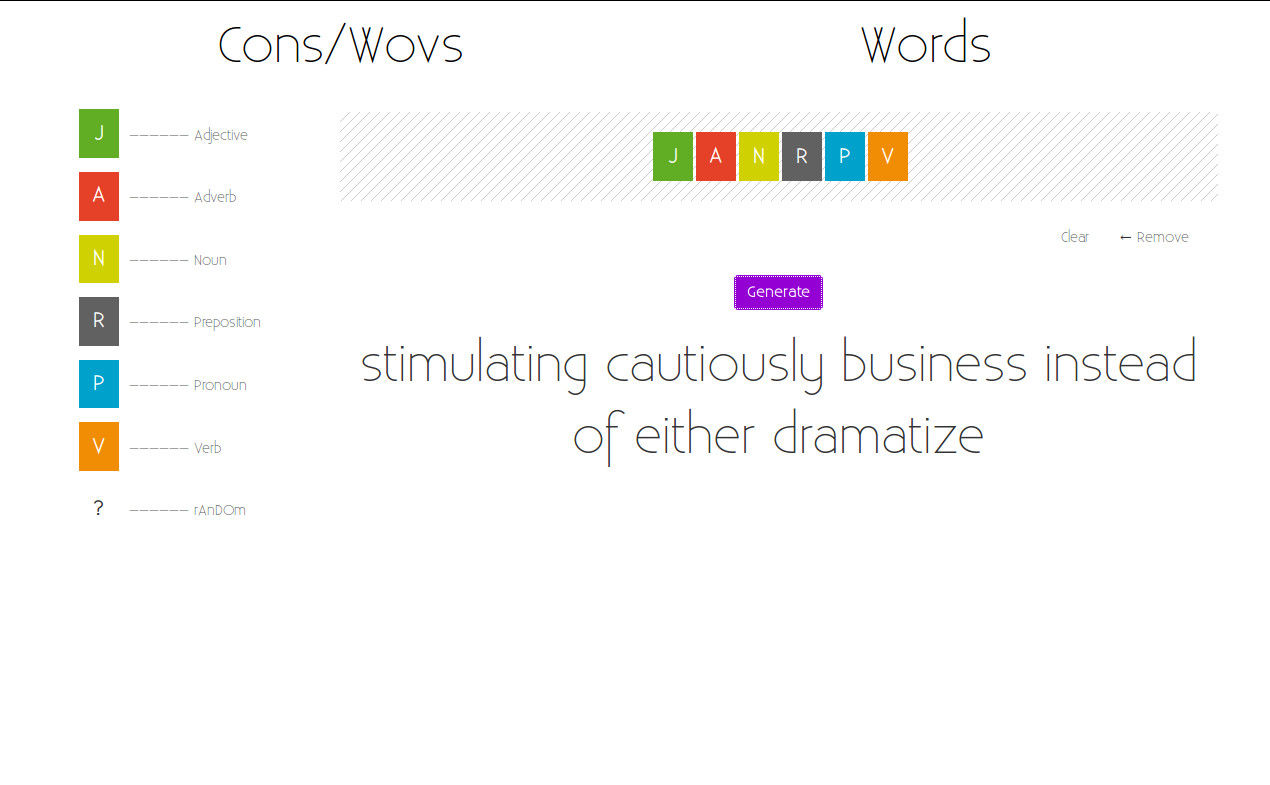
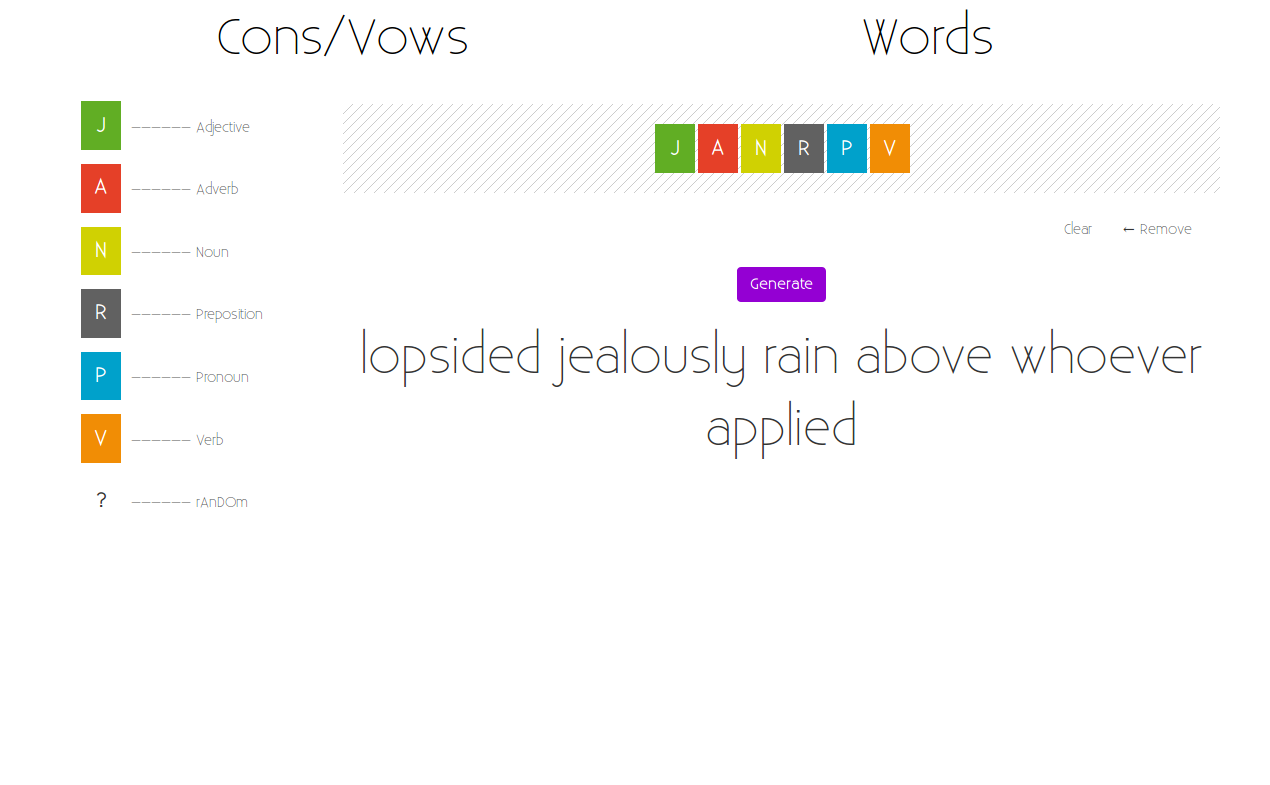
misc changes

diff --git a/templates/cv.html b/templates/cv.html
@@ -1,7 +1,7 @@
 <div class="container" ng-controller="cvCtrl">
     <div class="row text-center">
         <div class="col-sm-6">
-            <a href="#/cv">Cons/Wovs</a>
+            <a href="#/cv">Cons/Vows</a>
         </div>
         <div class="col-sm-6">
             <a href="#/w">Words</a>

diff --git a/templates/w.html b/templates/w.html
@@ -1,7 +1,7 @@
 <div class="container" ng-controller="wCtrl">
     <div class="row text-center">
         <div class="col-sm-6">
-            <a href="#/cv">Cons/Wovs</a>
+            <a href="#/cv">Cons/Vows</a>
         </div>
         <div class="col-sm-6">
             <a href="#/w">Words</a>
